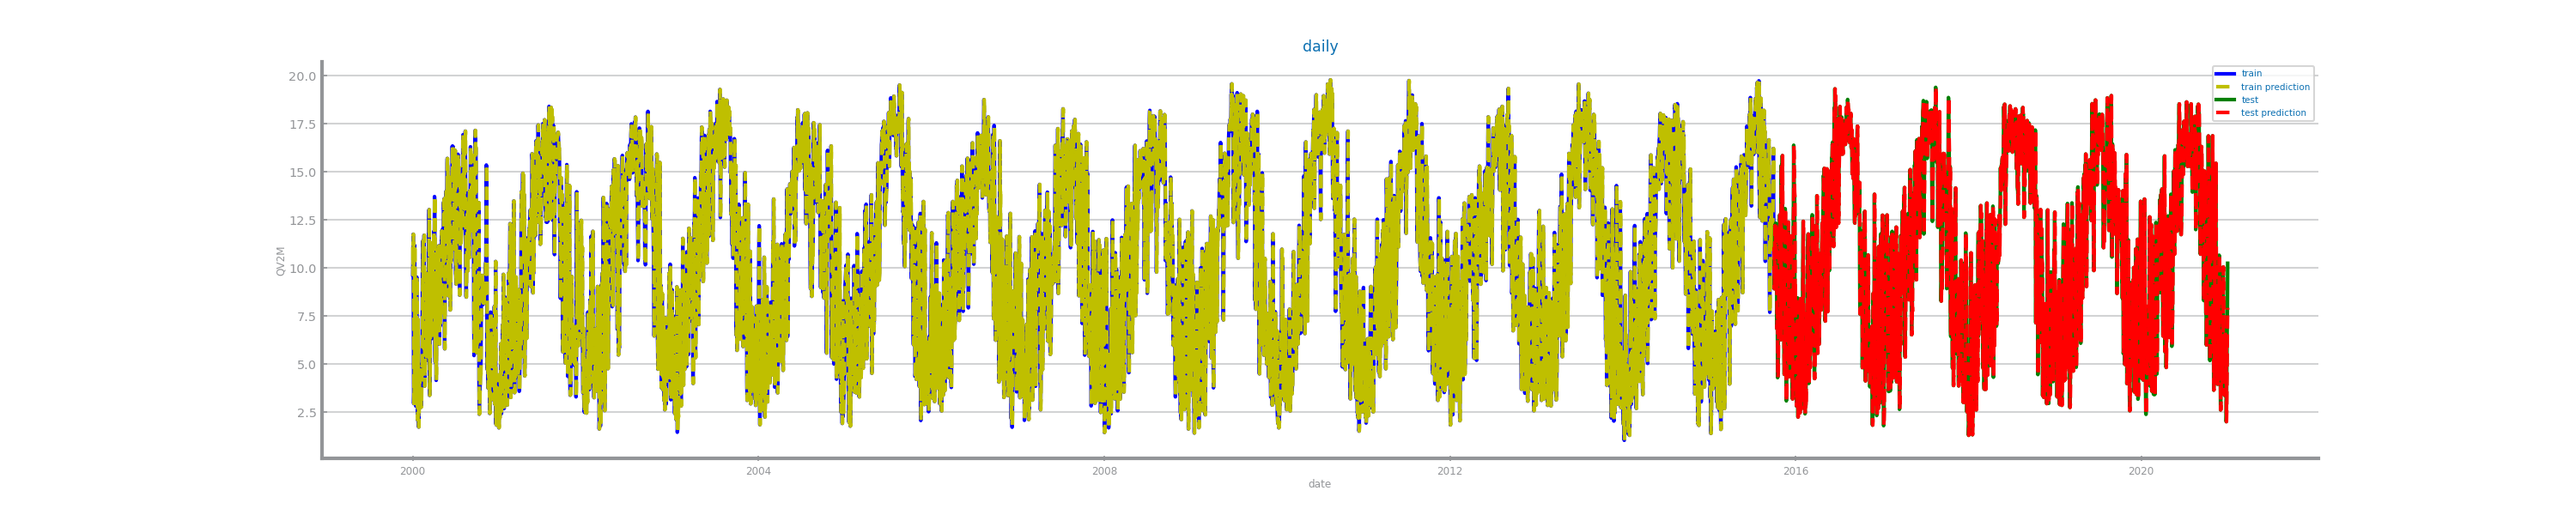
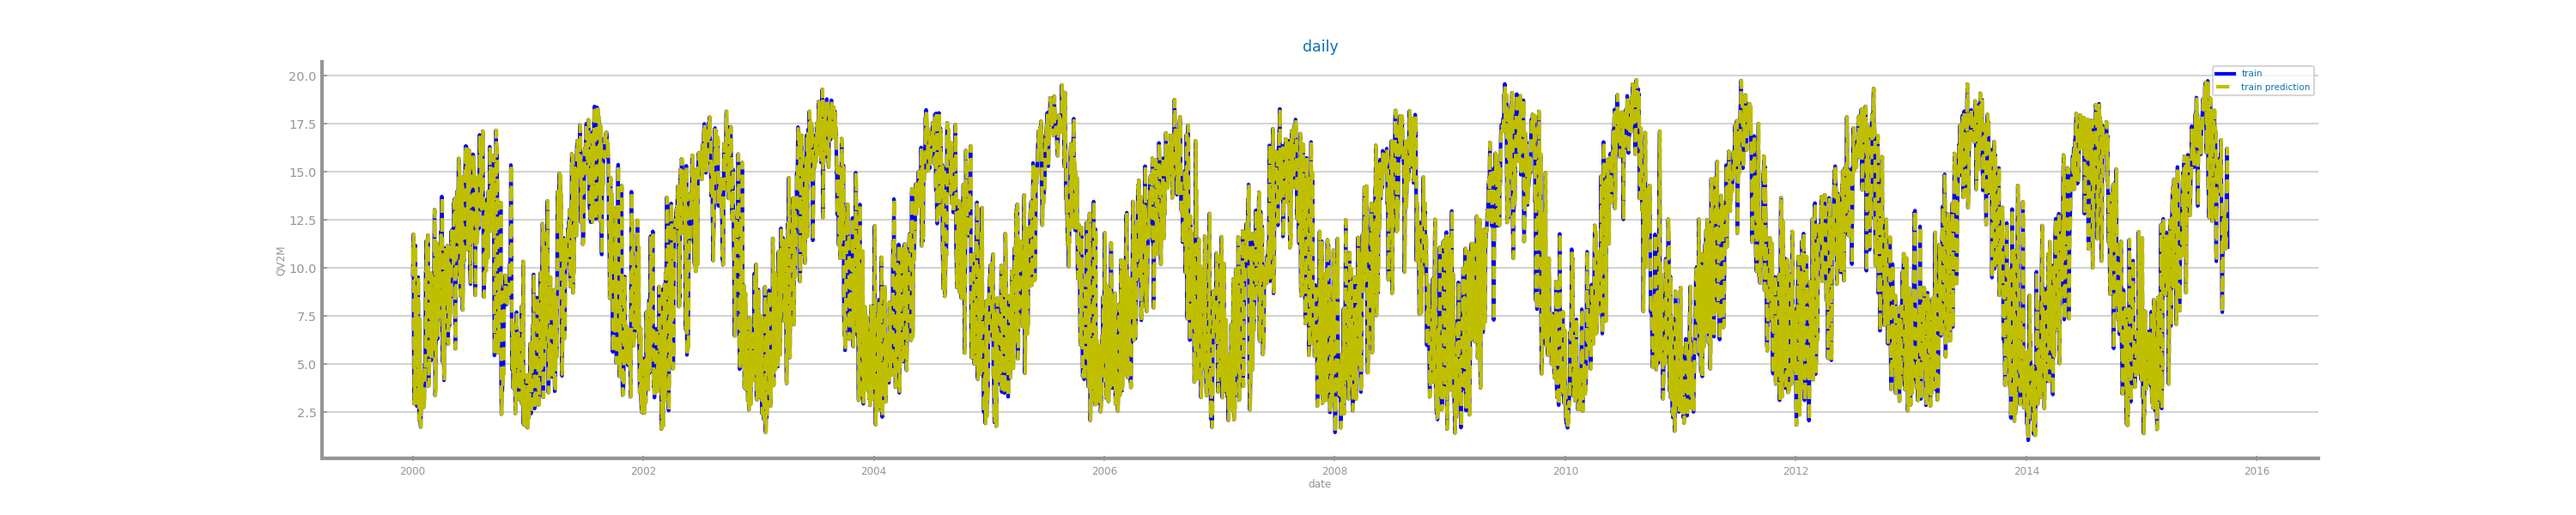
also for climate

Changed region(s): [[0.155, 0.18, 0.899, 0.84]]

diff --git a/climate-forecasting/src/transformation/aggregation.py b/climate-forecasting/src/transformation/aggregation.py
@@ -61,15 +61,13 @@ class Aggregation:
         test: pd.DataFrame = df_cp.iloc[trn_size:]
         return train, test
 
-    def plot_forecasting_series(self, trn, tst, prd_trn, prd_tst, figname: str, figpath: str, x_label: str = 'time', y_label:str =''):
+    def plot_forecasting_series(self, trn, prd_trn, figname: str, figpath: str, x_label: str = 'time', y_label:str =''):
         _, ax = plt.subplots(1,1,figsize=(5*HEIGHT, HEIGHT), squeeze=True)
         ax.set_xlabel(x_label)
         ax.set_ylabel(y_label)
         ax.set_title(figname)
         ax.plot(trn.index, trn, label='train', color='b')
         ax.plot(trn.index, prd_trn, '--y', label='train prediction')
-        ax.plot(tst.index, tst, label='test', color='g')
-        ax.plot(tst.index, prd_tst, '--r', label='test prediction')
         ax.legend(prop={'size': 5})
 
         savefig(figpath)
@@ -89,7 +87,7 @@ class Aggregation:
         print(eval_results)
         
         plot_evaluation_results(train.values, prd_trn, test.values, prd_tst, approach, f'climate-forecasting/records/transformation/aggregation/aggregation_{approach}_{measure}_persistance_eval')
-        self.plot_forecasting_series(train, test, prd_trn, prd_tst, approach, f'climate-forecasting/records/transformation/aggregation/aggregation_{approach}_{measure}_persistance_plots.png', x_label="date", y_label="QV2M")
+        self.plot_forecasting_series(train, prd_trn, approach, f'climate-forecasting/records/transformation/aggregation/aggregation_{approach}_{measure}_persistance_plots.png', x_label="date", y_label="QV2M")
 
 class PersistenceRegressor (RegressorMixin):
     def __init__(self):
